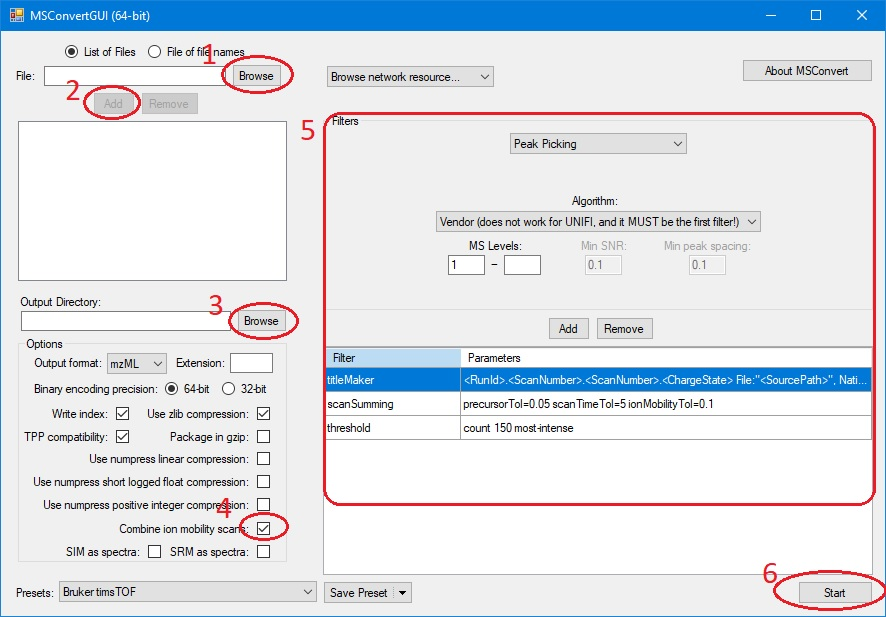
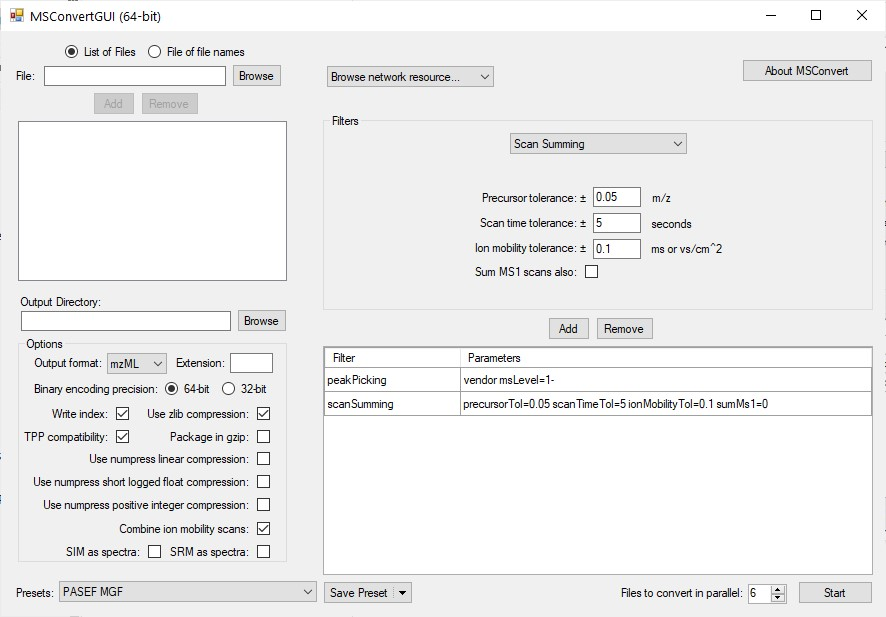
Update .d file conversion according to https://github.com/Nesvilab/FragPipe/issues/535#issuecomment-977241193

diff --git a/docs/tutorial_convert.md b/docs/tutorial_convert.md
@@ -29,11 +29,11 @@ Example command line options:
 
 ### Convert Bruker timsTOF .d files (NOT RECOMMENDED. MSFragger and IonQuant can load .d directly.):
 In the MSConvert window:
-1. Browse for the raw files you want to convert.
+1. Browse for the .d folders you want to convert.
 2. Add them to the input list.
 3. Select an output directory (where you want to mzML files to be generated).
 4. Set the output file format to 'mzML', and check the box for '**Combine ion mobility scans**'. The boxes for 'Write index', 'TPP compatibility', and 'Use zlib compression' should also be checked.
-5. Add '**scanSumming**' and '**threshold**'. To create the scanSumming filter, select 'scanSumming' from the drop down menu and specify 0.05 precursorTol, 5 scanTimeTol, and 0.1 for ionMobilityTol. Also add a 'threshold' scan using type 'count' for the 150 most-intense peaks. Remove the peakPicking filter so you have only the three filters shown in the image below.
+5. Add '**peakPicking**' and '**scanSumming**' filters.
 6. Press 'Start' to begin converting your files.
 
 ![](https://raw.githubusercontent.com/Nesvilab/FragPipe/gh-pages/images/10.jpg)
